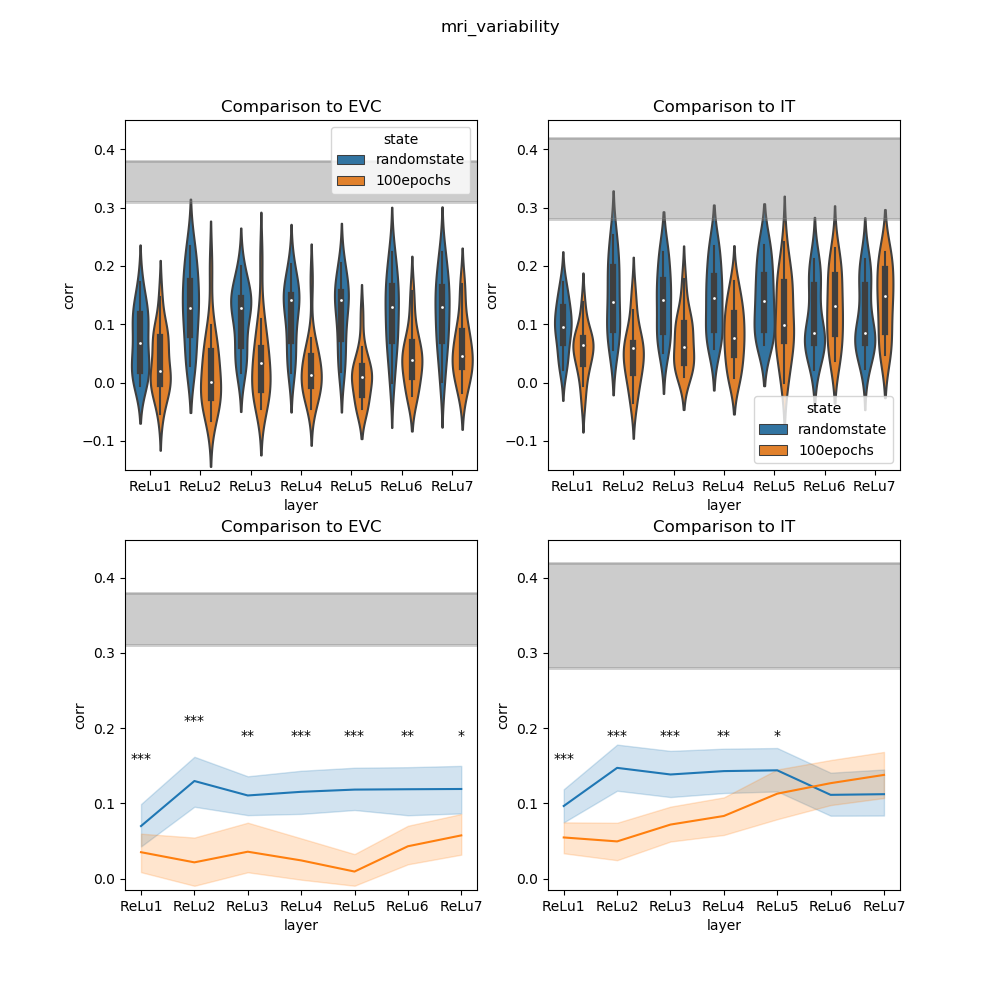
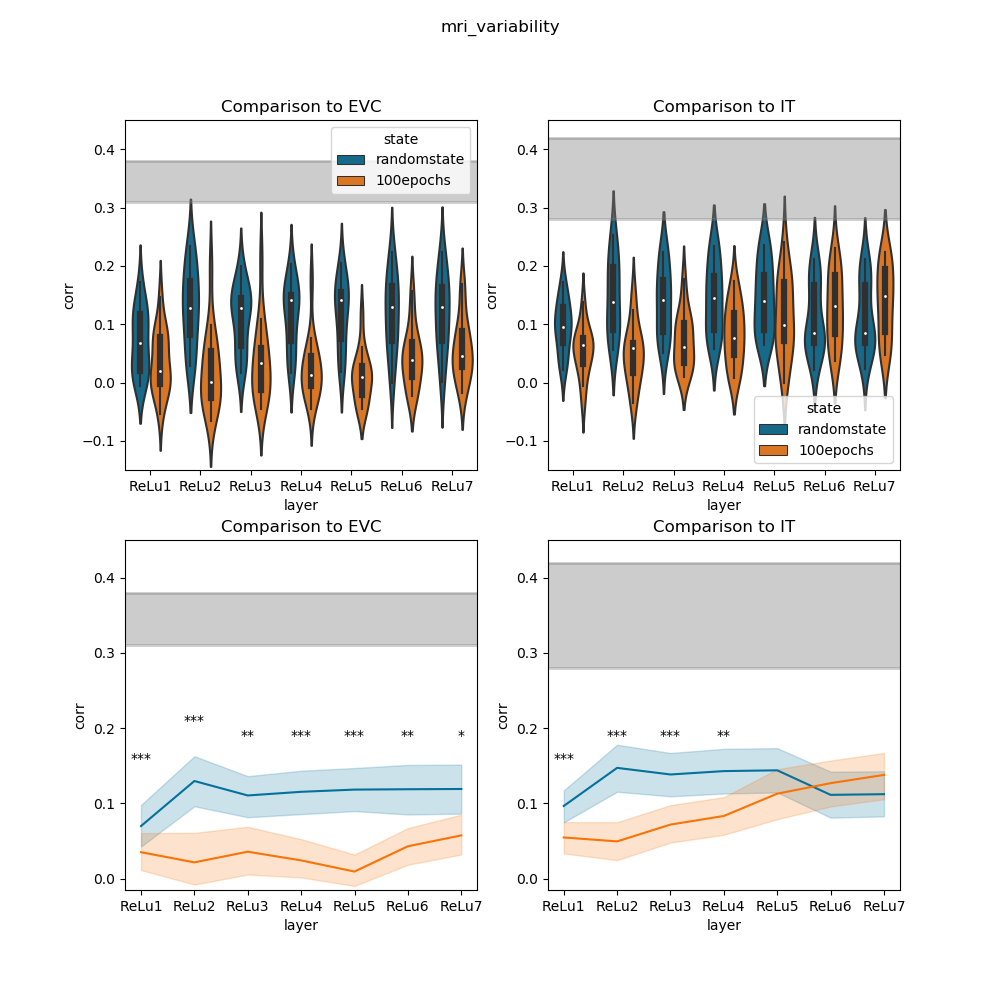
matched plot colours in different comparisons

diff --git a/code/corr_with_brain_plot_anova.py b/code/corr_with_brain_plot_anova.py
@@ -116,6 +116,8 @@ def layers_noise_ceiling(axes):
 
 def corr_with_brain_plot(corr_df,method):
     fig, ax = plt.subplots(nrows=2, ncols=2, figsize=(10,10))
+    costum_palette = [sns.xkcd_rgb['ocean blue'],sns.xkcd_rgb['orange']]
+    sns.set_palette(costum_palette)
     sns.violinplot(x='layer', y='corr', hue='state', data=corr_df[corr_df['ROI']=='EVC'], ax=ax[0,0])
     ax[0,0].set_title('Comparison to EVC')
     if 'mri_variability' in method:
@@ -176,7 +178,7 @@ def corr_with_brain_plot(corr_df,method):
         ax[1,1].text(1, 0.18, "***", ha='center', va='bottom', fontsize=10)        
         ax[1,1].text(2, 0.18, "***", ha='center', va='bottom', fontsize=10)        
         ax[1,1].text(3, 0.18, "**", ha='center', va='bottom', fontsize=10)        
-        ax[1,1].text(4, 0.18, "*", ha='center', va='bottom', fontsize=10)        
+ 
       
     plt.suptitle(f'{method}')
     plt.savefig(f'/home/annatruzzi/multiple_deepcluster/figures/corr_{method}.png')

diff --git a/code/comparison_with_alexnet.py b/code/comparison_with_alexnet.py
@@ -34,10 +34,10 @@ from scipy.stats import wilcoxon
 def corr_with_brain_plot(dataframe,flag):
     if flag != 'with_dctrained':
         dataframe = dataframe[dataframe['net_type']!='dc100epochs']
-        costum_palette = [sns.xkcd_rgb['blue'],sns.xkcd_rgb['green']]
+        costum_palette = [sns.xkcd_rgb['ocean blue'],sns.xkcd_rgb['green']]
         sns.set_palette(costum_palette)
     else:
-        costum_palette = [sns.xkcd_rgb['blue'],sns.xkcd_rgb['orange'],sns.xkcd_rgb['green']]
+        costum_palette = [sns.xkcd_rgb['ocean blue'],sns.xkcd_rgb['orange'],sns.xkcd_rgb['green']]
         sns.set_palette(costum_palette)
     fig, ax = plt.subplots(nrows=1, ncols=2, figsize=(10,5))
     sns.lineplot(x="layer", y="corr", hue="net_type", data=dataframe[dataframe['ROI']=='EVC'], markers=True, dashes=False, ax=ax[0],legend=False)    
